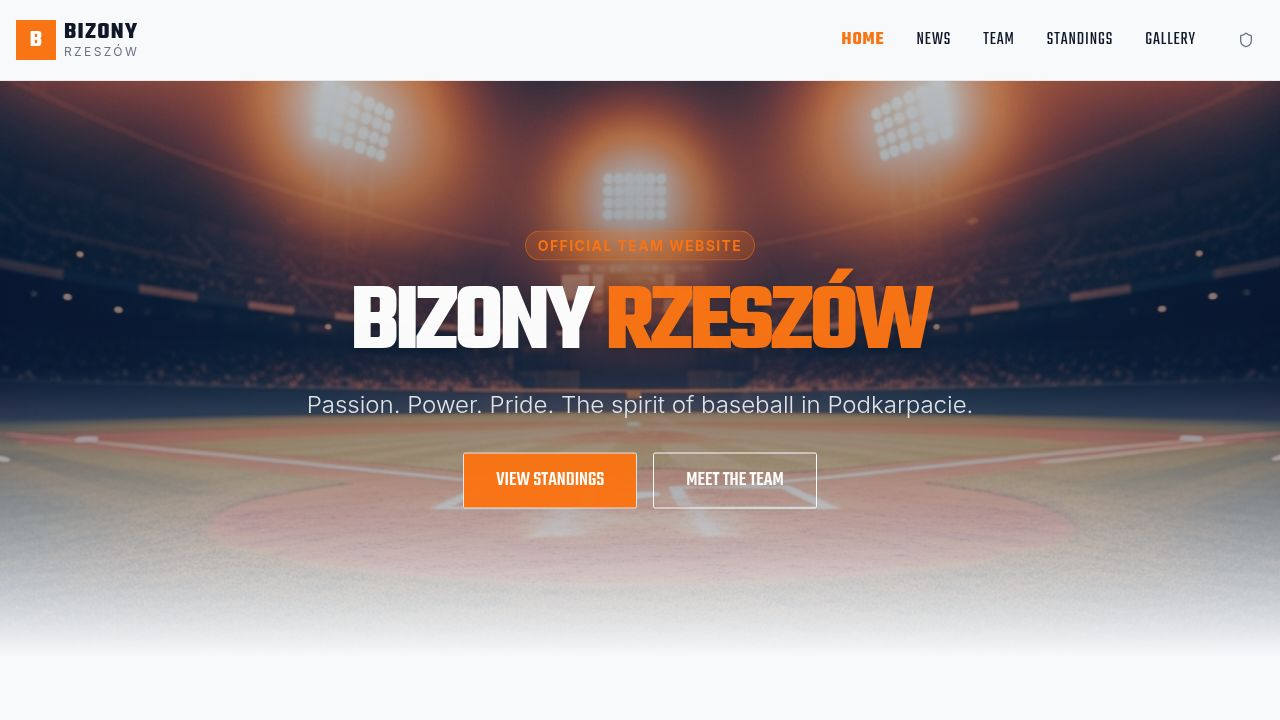
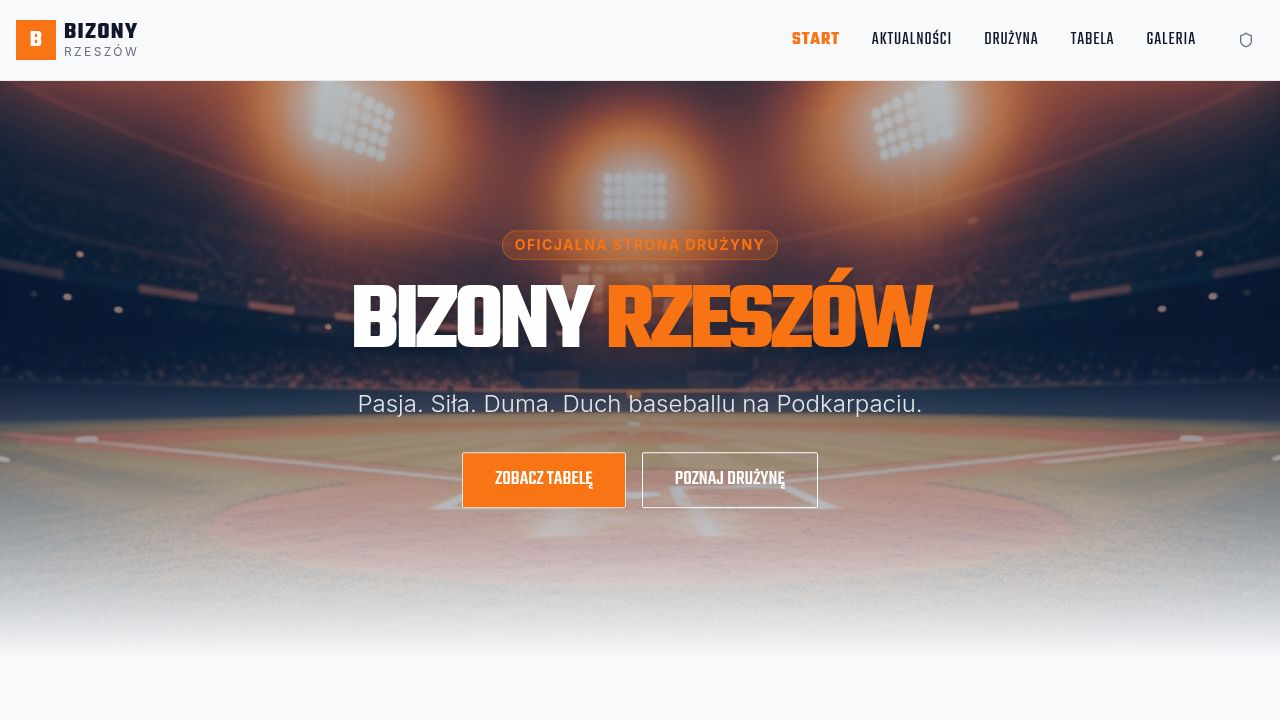
Translate website content and player positions to Polish
Updates navigation links, news content, player positions, and UI elements to Polish. Modifies image URLs in the store and updates admin panel labels for Polish localization.

Replit-Commit-Author: Agent
Replit-Commit-Session-Id: 43685fe8-601e-4607-95e8-7399da8ee240
Replit-Commit-Checkpoint-Type: full_checkpoint
Replit-Commit-Event-Id: 7cf3973f-52dc-4eef-ab10-cad4acd9e05c
Replit-Commit-Screenshot-Url: https://storage.googleapis.com/screenshot-production-us-central1/f80b9050-ae2f-4224-8ab7-2b6be34f3b78/43685fe8-601e-4607-95e8-7399da8ee240/FaARxt9
Replit-Helium-Checkpoint-Created: true

diff --git a/client/src/pages/Home.tsx b/client/src/pages/Home.tsx
@@ -31,23 +31,23 @@ export default function Home() {
             transition={{ duration: 0.8 }}
           >
             <span className="inline-block py-1 px-3 border border-primary/50 bg-primary/20 text-primary backdrop-blur-md rounded-full text-sm font-bold uppercase tracking-widest mb-4">
-              Official Team Website
+              Oficjalna Strona Drużyny
             </span>
             <h1 className="text-6xl md:text-8xl font-display font-bold uppercase tracking-tighter drop-shadow-lg">
               Bizony <span className="text-primary">Rzeszów</span>
             </h1>
             <p className="text-xl md:text-2xl font-light text-gray-200 max-w-2xl mx-auto mt-4 mb-8">
-              Passion. Power. Pride. The spirit of baseball in Podkarpacie.
+              Pasja. Siła. Duma. Duch baseballu na Podkarpaciu.
             </p>
             <div className="flex flex-col sm:flex-row gap-4 justify-center">
               <Link href="/standings">
                 <Button size="lg" className="bg-primary hover:bg-primary/90 text-white font-display text-xl uppercase px-8 h-14">
-                  View Standings
+                  Zobacz Tabelę
                 </Button>
               </Link>
               <Link href="/team">
                 <Button size="lg" variant="outline" className="border-white text-white hover:bg-white/10 hover:text-white font-display text-xl uppercase px-8 h-14">
-                  Meet the Team
+                  Poznaj Drużynę
                 </Button>
               </Link>
             </div>
@@ -62,10 +62,10 @@ export default function Home() {
           {/* News Column */}
           <div className="lg:col-span-2 space-y-8">
             <div className="flex items-center justify-between">
-              <h2 className="text-4xl font-display font-bold uppercase text-secondary">Latest News</h2>
+              <h2 className="text-4xl font-display font-bold uppercase text-secondary">Aktualności</h2>
               <Link href="/news">
                 <Button variant="link" className="text-primary hover:text-primary/80 group">
-                  View All <ArrowRight className="ml-2 w-4 h-4 group-hover:translate-x-1 transition-transform" />
+                  Zobacz Wszystkie <ArrowRight className="ml-2 w-4 h-4 group-hover:translate-x-1 transition-transform" />
                 </Button>
               </Link>
             </div>
@@ -100,7 +100,7 @@ export default function Home() {
           <div className="space-y-8">
             <div className="flex items-center gap-3">
               <Trophy className="w-8 h-8 text-primary" />
-              <h2 className="text-4xl font-display font-bold uppercase text-secondary">League Table</h2>
+              <h2 className="text-4xl font-display font-bold uppercase text-secondary">Tabela Ligowa</h2>
             </div>
 
             <Card className="border-t-4 border-t-primary shadow-lg">
@@ -108,10 +108,10 @@ export default function Home() {
                 <table className="w-full text-sm">
                   <thead className="bg-muted text-muted-foreground uppercase font-display tracking-wider">
                     <tr>
-                      <th className="p-3 text-left">Team</th>
+                      <th className="p-3 text-left">Drużyna</th>
                       <th className="p-3 text-center">W</th>
-                      <th className="p-3 text-center">L</th>
-                      <th className="p-3 text-center font-bold">Pts</th>
+                      <th className="p-3 text-center">P</th>
+                      <th className="p-3 text-center font-bold">Pkt</th>
                     </tr>
                   </thead>
                   <tbody>
@@ -131,7 +131,7 @@ export default function Home() {
                 <div className="p-4 border-t bg-muted/20">
                   <Link href="/standings">
                     <Button variant="outline" className="w-full uppercase font-display tracking-wider text-xs">
-                      Full Standings
+                      Pełna Tabela
                     </Button>
                   </Link>
                 </div>
@@ -141,17 +141,17 @@ export default function Home() {
             {/* Next Match Promo (Static for Mockup) */}
             <div className="bg-secondary text-white p-6 rounded-lg relative overflow-hidden">
               <div className="absolute top-0 right-0 w-32 h-32 bg-primary/20 rounded-full blur-3xl -mr-16 -mt-16" />
-              <h3 className="font-display uppercase tracking-widest text-primary mb-4 text-sm font-bold">Next Match</h3>
+              <h3 className="font-display uppercase tracking-widest text-primary mb-4 text-sm font-bold">Następny Mecz</h3>
               <div className="text-center space-y-4">
                 <div className="flex justify-between items-center">
                   <span className="font-bold text-lg">Bizony</span>
                   <span className="text-muted-foreground text-sm">VS</span>
                   <span className="font-bold text-lg">Centaurs</span>
                 </div>
-                <div className="text-4xl font-display font-bold">MAY 15</div>
-                <div className="text-sm text-gray-400">14:00 • Rzeszów Field</div>
+                <div className="text-4xl font-display font-bold">15 MAJA</div>
+                <div className="text-sm text-gray-400">14:00 • Boisko Rzeszów</div>
                 <Button className="w-full bg-primary hover:bg-primary/90 uppercase font-display">
-                  Get Tickets
+                  Kup Bilety
                 </Button>
               </div>
             </div>

diff --git a/client/src/pages/admin/AdminDashboard.tsx b/client/src/pages/admin/AdminDashboard.tsx
@@ -77,16 +77,16 @@ export default function AdminDashboard() {
         <Tabs defaultValue="news" className="space-y-6">
           <TabsList className="bg-white p-1 shadow-sm border h-auto flex-wrap justify-start">
             <TabsTrigger value="news" className="data-[state=active]:bg-primary data-[state=active]:text-white px-6 py-2 uppercase font-display tracking-wider">
-              <Newspaper className="w-4 h-4 mr-2" /> News
+              <Newspaper className="w-4 h-4 mr-2" /> Aktualności
             </TabsTrigger>
             <TabsTrigger value="team" className="data-[state=active]:bg-primary data-[state=active]:text-white px-6 py-2 uppercase font-display tracking-wider">
-              <Users className="w-4 h-4 mr-2" /> Roster
+              <Users className="w-4 h-4 mr-2" /> Skład
             </TabsTrigger>
             <TabsTrigger value="standings" className="data-[state=active]:bg-primary data-[state=active]:text-white px-6 py-2 uppercase font-display tracking-wider">
-              <Trophy className="w-4 h-4 mr-2" /> Standings
+              <Trophy className="w-4 h-4 mr-2" /> Tabela
             </TabsTrigger>
             <TabsTrigger value="gallery" className="data-[state=active]:bg-primary data-[state=active]:text-white px-6 py-2 uppercase font-display tracking-wider">
-              <ImageIcon className="w-4 h-4 mr-2" /> Gallery
+              <ImageIcon className="w-4 h-4 mr-2" /> Galeria
             </TabsTrigger>
           </TabsList>
 
@@ -94,26 +94,26 @@ export default function AdminDashboard() {
           <TabsContent value="news" className="space-y-6">
             <div className="grid md:grid-cols-3 gap-6">
               <Card className="md:col-span-1 h-fit">
-                <CardHeader><CardTitle>Add News Article</CardTitle></CardHeader>
+                <CardHeader><CardTitle>Dodaj Artykuł</CardTitle></CardHeader>
                 <CardContent className="space-y-4">
                   <div className="space-y-2">
-                    <Label>Title</Label>
-                    <Input value={newsForm.title} onChange={e => setNewsForm({...newsForm, title: e.target.value})} placeholder="Victory against Warsaw..." />
+                    <Label>Tytuł</Label>
+                    <Input value={newsForm.title} onChange={e => setNewsForm({...newsForm, title: e.target.value})} placeholder="Zwycięstwo nad Warszawą..." />
                   </div>
                   <div className="space-y-2">
-                    <Label>Excerpt</Label>
-                    <Textarea value={newsForm.excerpt} onChange={e => setNewsForm({...newsForm, excerpt: e.target.value})} placeholder="Brief summary..." />
+                    <Label>Wstęp</Label>
+                    <Textarea value={newsForm.excerpt} onChange={e => setNewsForm({...newsForm, excerpt: e.target.value})} placeholder="Krótkie podsumowanie..." />
                   </div>
                   <div className="space-y-2">
-                    <Label>Full Content</Label>
-                    <Textarea className="h-32" value={newsForm.content} onChange={e => setNewsForm({...newsForm, content: e.target.value})} placeholder="Full story..." />
+                    <Label>Treść</Label>
+                    <Textarea className="h-32" value={newsForm.content} onChange={e => setNewsForm({...newsForm, content: e.target.value})} placeholder="Pełna treść..." />
                   </div>
                   <div className="space-y-2">
-                    <Label>Image URL</Label>
+                    <Label>URL Obrazu</Label>
                     <Input value={newsForm.image} onChange={e => setNewsForm({...newsForm, image: e.target.value})} placeholder="https://..." />
                   </div>
                   <Button onClick={handleAddNews} className="w-full bg-primary hover:bg-primary/90 text-white">
-                    <Plus className="w-4 h-4 mr-2" /> Publish News
+                    <Plus className="w-4 h-4 mr-2" /> Opublikuj
                   </Button>
                 </CardContent>
               </Card>

diff --git a/client/src/lib/store.tsx b/client/src/lib/store.tsx
@@ -59,26 +59,26 @@ const AppContext = createContext<AppContextType | undefined>(undefined);
 const INITIAL_NEWS: NewsItem[] = [
   {
     id: "1",
-    title: "Bizony Rzeszów Start the 2026 Season Strong!",
-    excerpt: "The team showed incredible spirit in the opening game against Warsaw.",
-    content: "It was a sunny afternoon in Rzeszów as the Bizony took to the field...",
+    title: "Bizony Rzeszów mocno zaczynają sezon 2026!",
+    excerpt: "Zespół pokazał niesamowitego ducha w meczu otwarcia przeciwko Warszawie.",
+    content: "To było słoneczne popołudnie w Rzeszowie, gdy Bizony wyszły na boisko...",
     date: "2026-04-12",
     image: newsImg,
   },
   {
     id: "2",
-    title: "New Training Facility Opens",
-    excerpt: "We are proud to announce our new indoor batting cages are ready.",
-    content: "Thanks to the support of our sponsors, we now have state-of-the-art facilities...",
+    title: "Otwarcie Nowego Obiektu Treningowego",
+    excerpt: "Z dumą ogłaszamy, że nasze nowe kryte klatki do odbijania są gotowe.",
+    content: "Dzięki wsparciu naszych sponsorów dysponujemy teraz najnowocześniejszymi obiektami...",
     date: "2026-03-20",
     image: heroImg,
   },
 ];
 
 const INITIAL_PLAYERS: Player[] = [
-  { id: "1", name: "Jan Kowalski", number: 23, position: "Pitcher", image: "https://images.unsplash.com/photo-1556637482-fa587f893e48?w=400&auto=format&fit=crop&q=60&ixlib=rb-4.0.3" },
-  { id: "2", name: "Mike Smith", number: 12, position: "Catcher", image: "https://images.unsplash.com/photo-1619472624508-41cb76503c5d?w=400&auto=format&fit=crop&q=60&ixlib=rb-4.0.3" },
-  { id: "3", name: "Adam Nowak", number: 5, position: "Shortstop", image: "https://images.unsplash.com/photo-1522778119026-d647f0565c6d?w=400&auto=format&fit=crop&q=60&ixlib=rb-4.0.3" },
+  { id: "1", name: "Jan Kowalski", number: 23, position: "Miotacz", image: "https://images.unsplash.com/photo-1556637482-fa587f893e48?w=400&auto=format&fit=crop&q=60&ixlib=rb-4.0.3" },
+  { id: "2", name: "Mike Smith", number: 12, position: "Łapacz", image: "https://images.unsplash.com/photo-1619472624508-41cb76503c5d?w=400&auto=format&fit=crop&q=60&ixlib=rb-4.0.3" },
+  { id: "3", name: "Adam Nowak", number: 5, position: "Łącznik", image: "https://images.unsplash.com/photo-1522778119026-d647f0565c6d?w=400&auto=format&fit=crop&q=60&ixlib=rb-4.0.3" },
 ];
 
 const INITIAL_STANDINGS: Standing[] = [

diff --git a/client/src/pages/Standings.tsx b/client/src/pages/Standings.tsx
@@ -11,25 +11,25 @@ export default function Standings() {
     <div className="min-h-screen bg-background py-12">
       <div className="container mx-auto px-4 max-w-4xl">
         <h1 className="text-5xl font-display font-bold uppercase text-secondary mb-12 border-l-8 border-primary pl-6">
-          League Standings
+          Tabela Ligowa
         </h1>
 
         <Card className="border-none shadow-lg overflow-hidden">
           <CardHeader className="bg-secondary text-white">
             <CardTitle className="font-display uppercase tracking-wider text-2xl">
-              2026 Regular Season
+              Sezon Zasadniczy 2026
             </CardTitle>
           </CardHeader>
           <CardContent className="p-0">
             <Table>
               <TableHeader>
                 <TableRow className="bg-muted hover:bg-muted">
-                  <TableHead className="w-[100px] text-center font-bold uppercase">Rank</TableHead>
-                  <TableHead className="uppercase font-bold">Team</TableHead>
-                  <TableHead className="text-center uppercase font-bold">GP</TableHead>
+                  <TableHead className="w-[100px] text-center font-bold uppercase">Miejsce</TableHead>
+                  <TableHead className="uppercase font-bold">Drużyna</TableHead>
+                  <TableHead className="text-center uppercase font-bold">M</TableHead>
                   <TableHead className="text-center uppercase font-bold text-green-600">W</TableHead>
-                  <TableHead className="text-center uppercase font-bold text-red-600">L</TableHead>
-                  <TableHead className="text-center uppercase font-bold text-primary text-lg">Pts</TableHead>
+                  <TableHead className="text-center uppercase font-bold text-red-600">P</TableHead>
+                  <TableHead className="text-center uppercase font-bold text-primary text-lg">Pkt</TableHead>
                 </TableRow>
               </TableHeader>
               <TableBody>

diff --git a/client/src/pages/Gallery.tsx b/client/src/pages/Gallery.tsx
@@ -8,7 +8,7 @@ export default function Gallery() {
     <div className="min-h-screen bg-background py-12">
       <div className="container mx-auto px-4">
         <h1 className="text-5xl font-display font-bold uppercase text-secondary mb-12 border-l-8 border-primary pl-6">
-          Photo Gallery
+          Galeria Zdjęć
         </h1>
 
         <div className="grid grid-cols-1 md:grid-cols-2 lg:grid-cols-3 gap-6">
@@ -23,7 +23,7 @@ export default function Gallery() {
                   />
                   <div className="absolute inset-0 bg-black/50 opacity-0 transition-opacity group-hover:opacity-100 flex items-center justify-center">
                     <span className="text-white font-display uppercase text-xl font-bold tracking-wider border-2 border-primary px-4 py-2">
-                      View
+                      Powiększ
                     </span>
                   </div>
                   <div className="absolute bottom-0 left-0 w-full p-4 bg-gradient-to-t from-black/80 to-transparent opacity-0 group-hover:opacity-100 transition-opacity duration-300">

diff --git a/client/src/pages/News.tsx b/client/src/pages/News.tsx
@@ -9,7 +9,7 @@ export default function News() {
     <div className="min-h-screen bg-background py-12">
       <div className="container mx-auto px-4">
         <h1 className="text-5xl font-display font-bold uppercase text-secondary mb-12 border-l-8 border-primary pl-6">
-          Team News
+          Aktualności
         </h1>
 
         <div className="grid md:grid-cols-2 lg:grid-cols-3 gap-8">
@@ -22,7 +22,7 @@ export default function News() {
                   className="w-full h-full object-cover group-hover:scale-105 transition-transform duration-500"
                 />
                 <div className="absolute top-4 left-4 bg-primary text-white text-xs font-bold px-3 py-1 rounded uppercase tracking-wider">
-                  News
+                  Wiadomości
                 </div>
               </div>
               <CardHeader>

diff --git a/client/src/components/layout/Navbar.tsx b/client/src/components/layout/Navbar.tsx
@@ -11,11 +11,11 @@ export function Navbar() {
   const [isOpen, setIsOpen] = useState(false);
 
   const navItems = [
-    { label: "Home", href: "/" },
-    { label: "News", href: "/news" },
-    { label: "Team", href: "/team" },
-    { label: "Standings", href: "/standings" },
-    { label: "Gallery", href: "/gallery" },
+    { label: "Start", href: "/" },
+    { label: "Aktualności", href: "/news" },
+    { label: "Drużyna", href: "/team" },
+    { label: "Tabela", href: "/standings" },
+    { label: "Galeria", href: "/gallery" },
   ];
 
   const NavLink = ({ href, label, mobile = false }: { href: string; label: string; mobile?: boolean }) => {

diff --git a/client/src/pages/Team.tsx b/client/src/pages/Team.tsx
@@ -8,7 +8,7 @@ export default function Team() {
     <div className="min-h-screen bg-background py-12">
       <div className="container mx-auto px-4">
         <h1 className="text-5xl font-display font-bold uppercase text-secondary mb-12 border-l-8 border-primary pl-6">
-          Meet the Team
+          Poznaj Drużynę
         </h1>
 
         <div className="grid grid-cols-1 sm:grid-cols-2 lg:grid-cols-4 gap-8">
